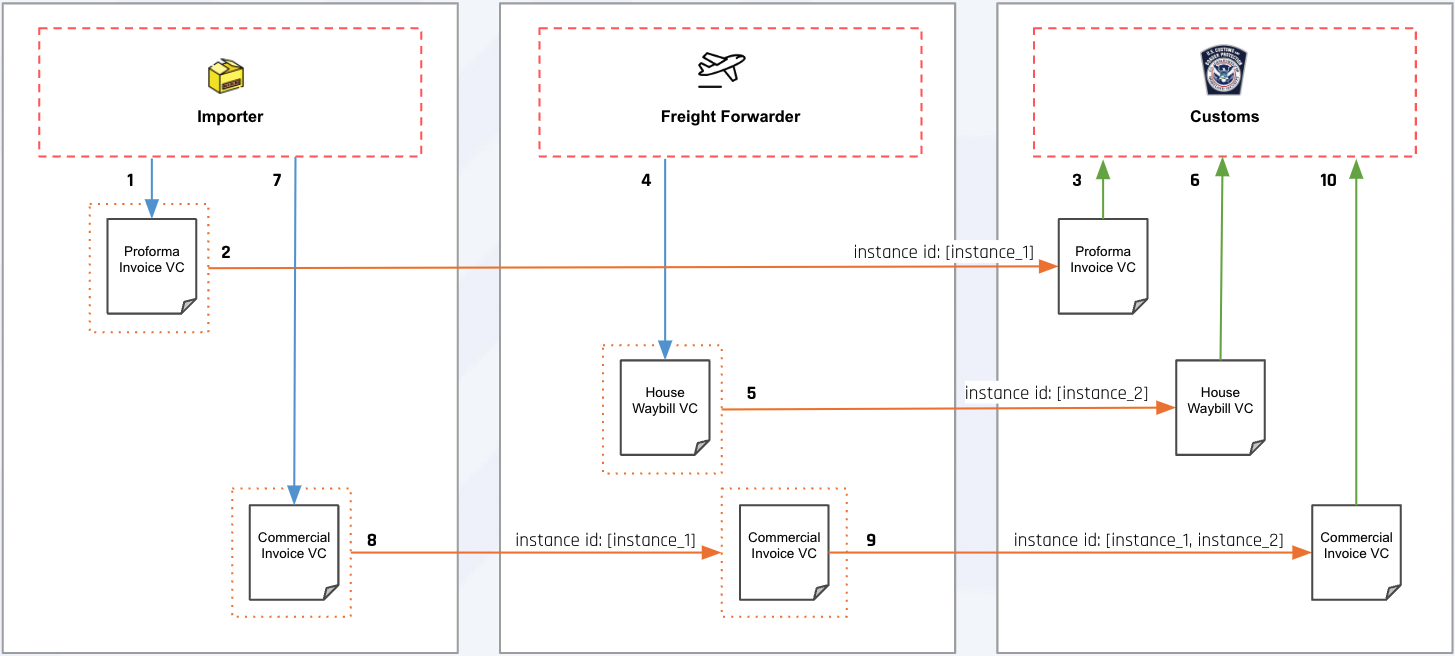
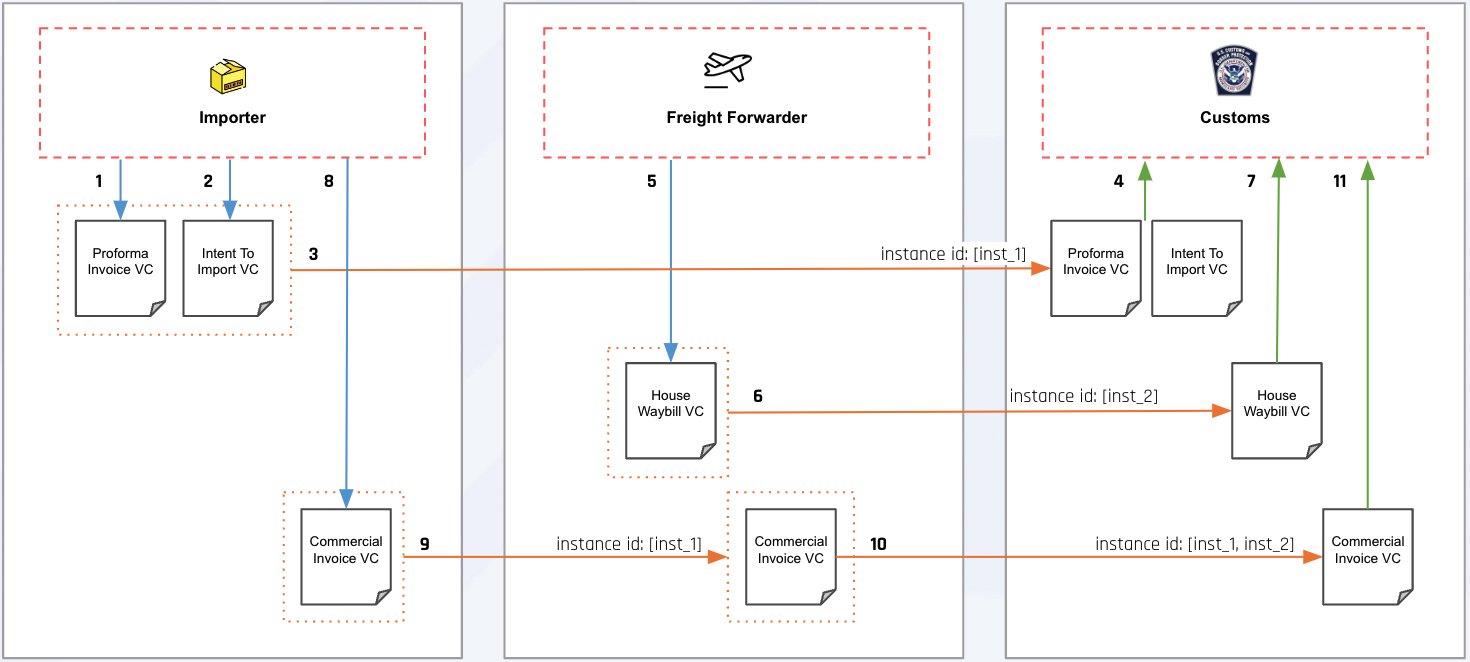
feat: iti on workflow join

diff --git a/docs/index.html b/docs/index.html
@@ -906,19 +906,19 @@ Issuers are advised to review the JSON-LD and all associated terms before issuin
           <figcaption>Freight Forwarder Consignment Workflow</figcaption>
         </figure>
         <p>
-          The product importer of record issues a Proforma Invoice (1) which is presented to CBP with instance id [instance_1] well ahead of shipping (2). 
+          The product importer of record issues Proforma Invoice (1) and Intent To Import (2) credentials which is presented to CBP (3) with instance id [inst_1] well ahead of shipping. 
         </p>
         <p>
-          CBP verifies the Proforma Invoice (3) from the Importer.
+          CBP verifies the initial import documentation submitted by the Importer (4).
         </p>
         <p>
-          The importer issues the final Commercial Invoice (7) which is presented to the Freight Forwarder (8) also with instance id [instance_1].
+          Upon shipping, the Freight Forwarder issues a House BL (5) which is presented to CBP (6) with a separate instance id [inst_2].
         </p>
         <p>
-          Upon shipping, the Freight Forwarder issues a House BL (4) which is presented (5) with instance id [instance_2]. Passing on the Commercial Invoice (9), the Freight Forwarder joins includes both its own and the Importer’s instance ids [instance_1, instance_2]. 
+          The Importer issues the final Commercial Invoice (8) which is presented to the Freight Forwarder (9) also with instance id [inst_1]. Passing on the Commercial Invoice, the Freight Forwarder includes both its own and the Importer’s instance ids [inst_1, inst_2], indicating to Customs that the workflows are related.
         </p>
         <p>
-          CBP verifies the House BL from the Freight Forwarder (6). Receiving the Commercial Invoice (10), CBP can also join the two graphs, thus knowing that the original Proforma Invoice relates to the Freight Forwarder’s presentations. 
+          Receiving the Commercial Invoice (10), CBP can also join the two graphs, thus knowing that the original Proforma Invoice relates to the Freight Forwarder’s presentations. 
         </p>
       </section>
       <section>
